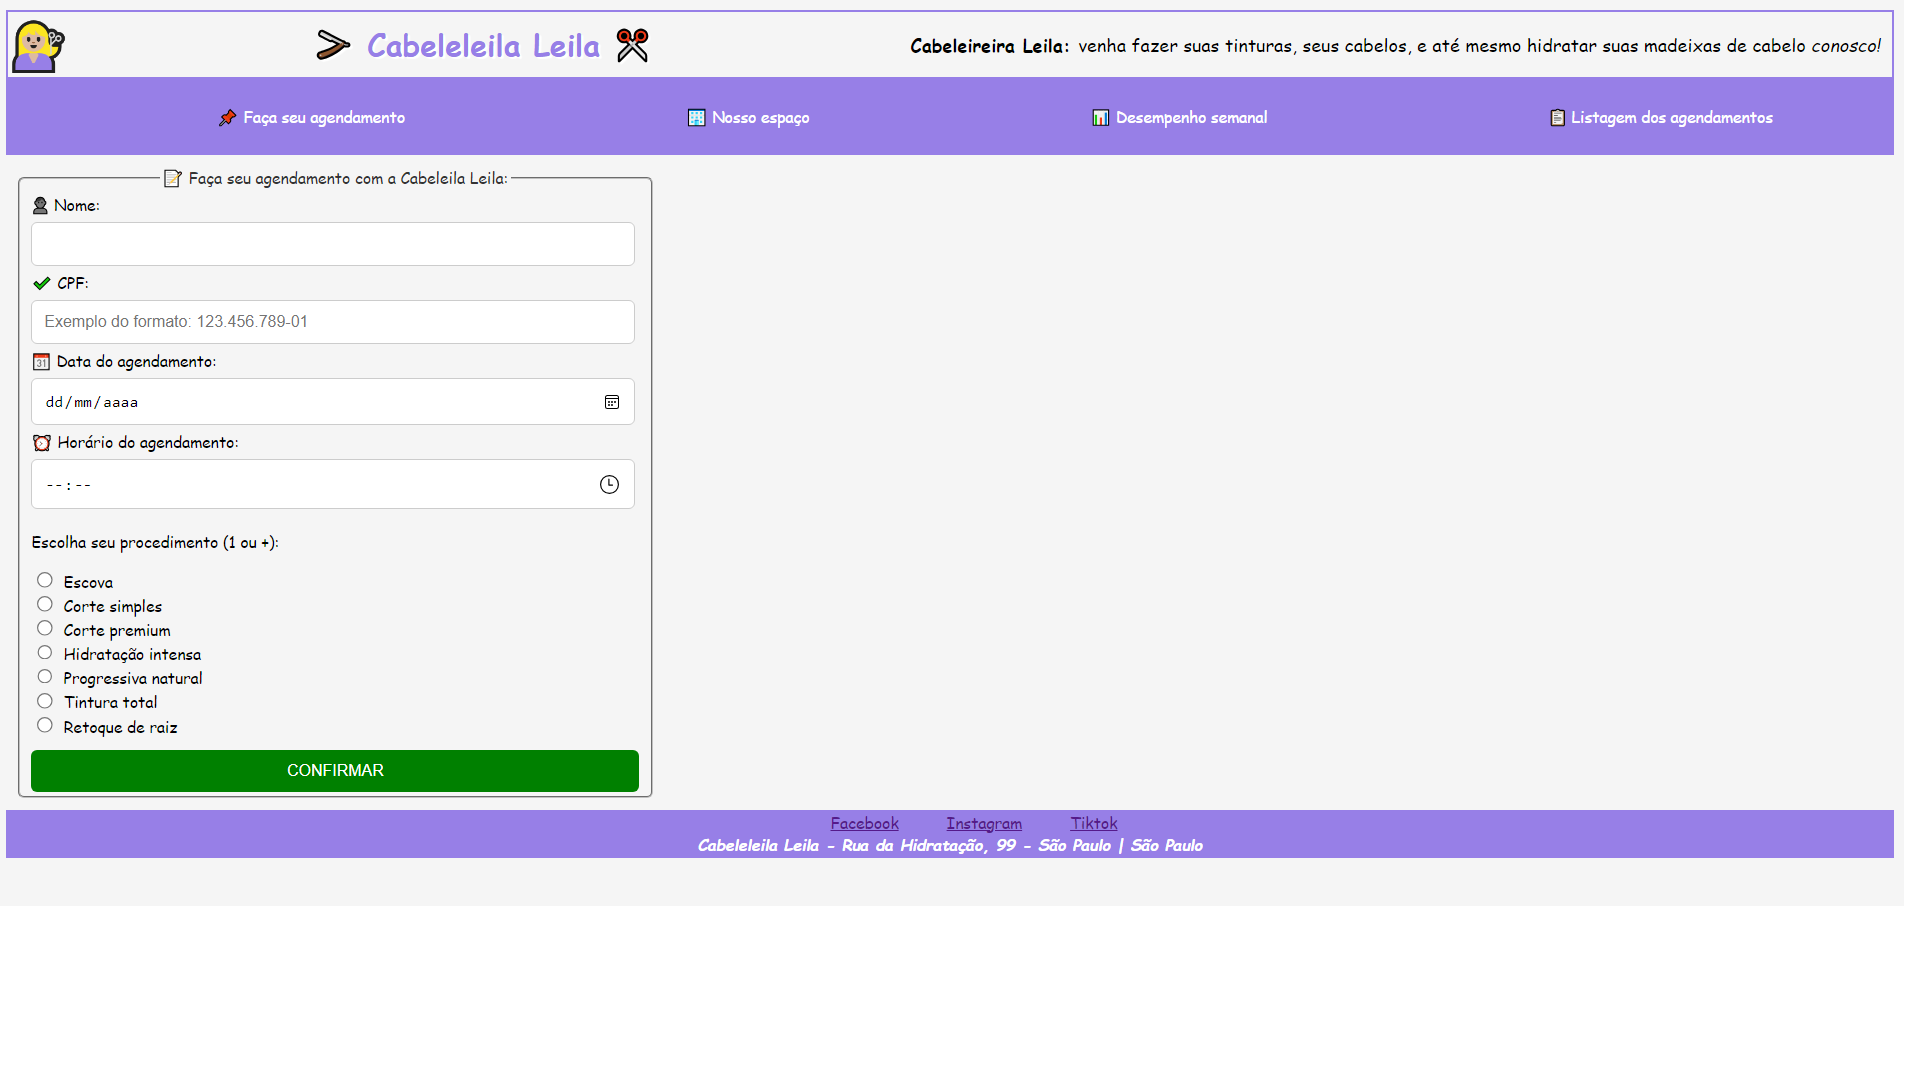
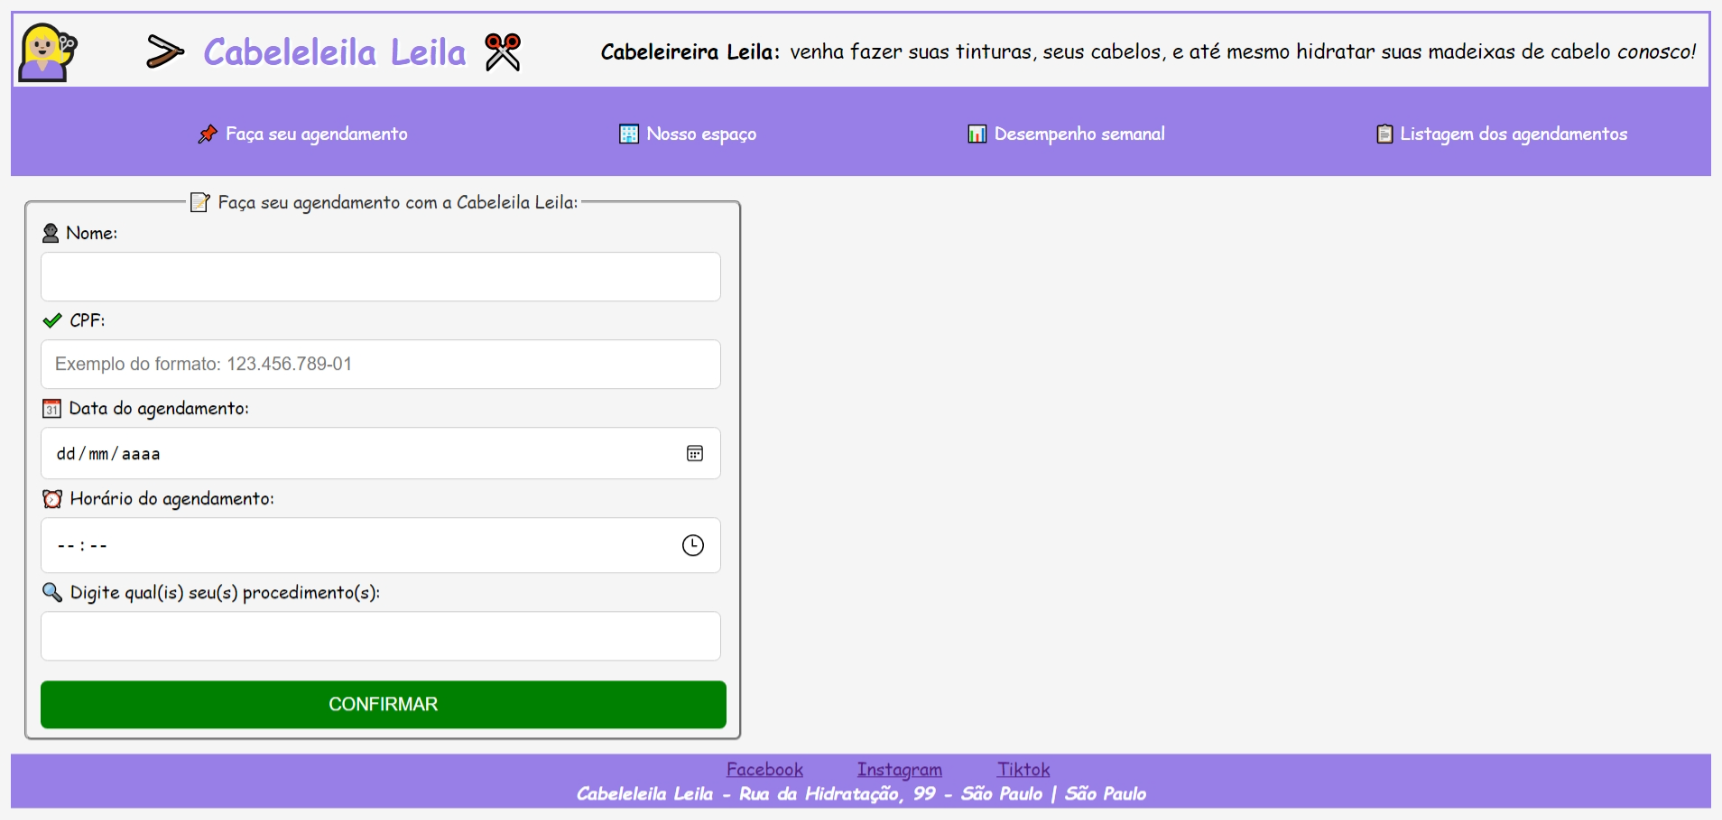
adicionando prints

diff --git a/src/app/page.js b/src/app/page.js
@@ -51,7 +51,7 @@ export default function Home() {
         <input type = "time" name = "usuario_horario" className = "campo_horario" required size = "46" onChange={(e)=> setHorario(e.target.value)}/>
     </div>
     <div>
-      <label for = "procedimento" required> Digite qual(is) seu(s) procedimento(s): </label>
+      <label for = "procedimento" required> 🔍 Digite qual(is) seu(s) procedimento(s): </label>
       <input type = "text" name = "usuario_procedimento" className = "campo_procedimento" required size = "46" onChange={(e)=> setProcedimento(e.target.value)}/>
     </div>
     <div className="button">

diff --git a/src/app/globals.css b/src/app/globals.css
@@ -157,7 +157,7 @@ button{
 
 fieldset{
   width:300px;
-  height:510px;
+  height:390px;
   border-radius: 5px;
   margin: 10px;
 }

diff --git a/README.md b/README.md
@@ -39,3 +39,5 @@ JavaScript, MongoDB, HTML, CSS, GitHub, Next.Js e React.
 ![página2](/src/app/prints-das-telas/page%202.png)
 
 ![página3](/src/app/prints-das-telas/page%203.png)
+
+![página4](/src/app/prints-das-telas/page%204.png)
